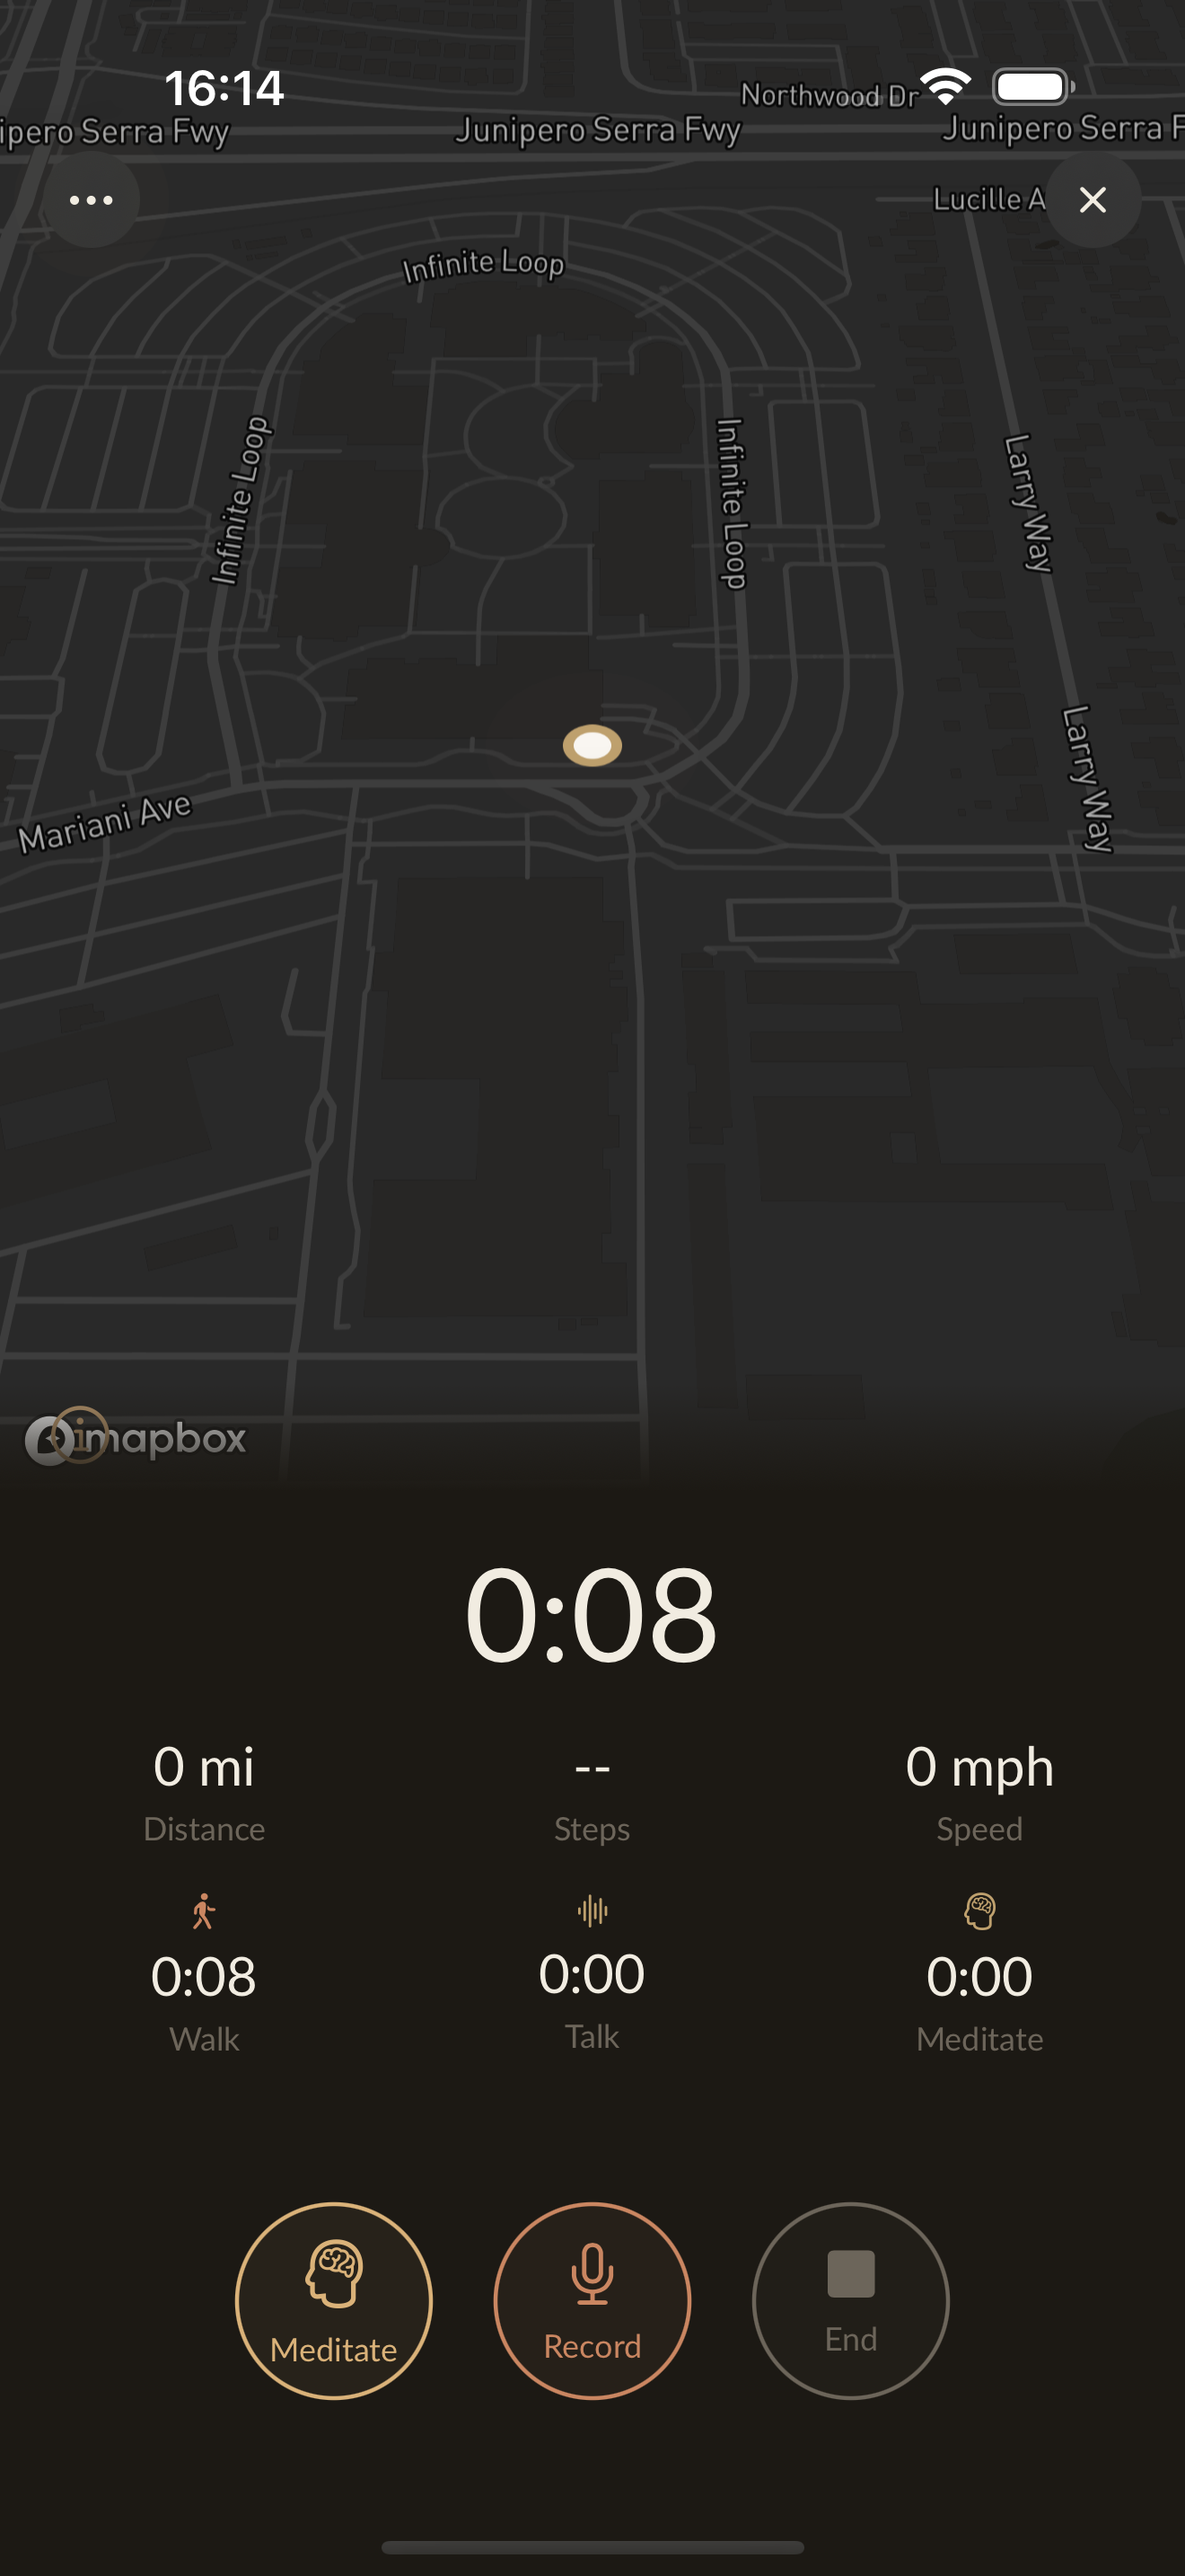
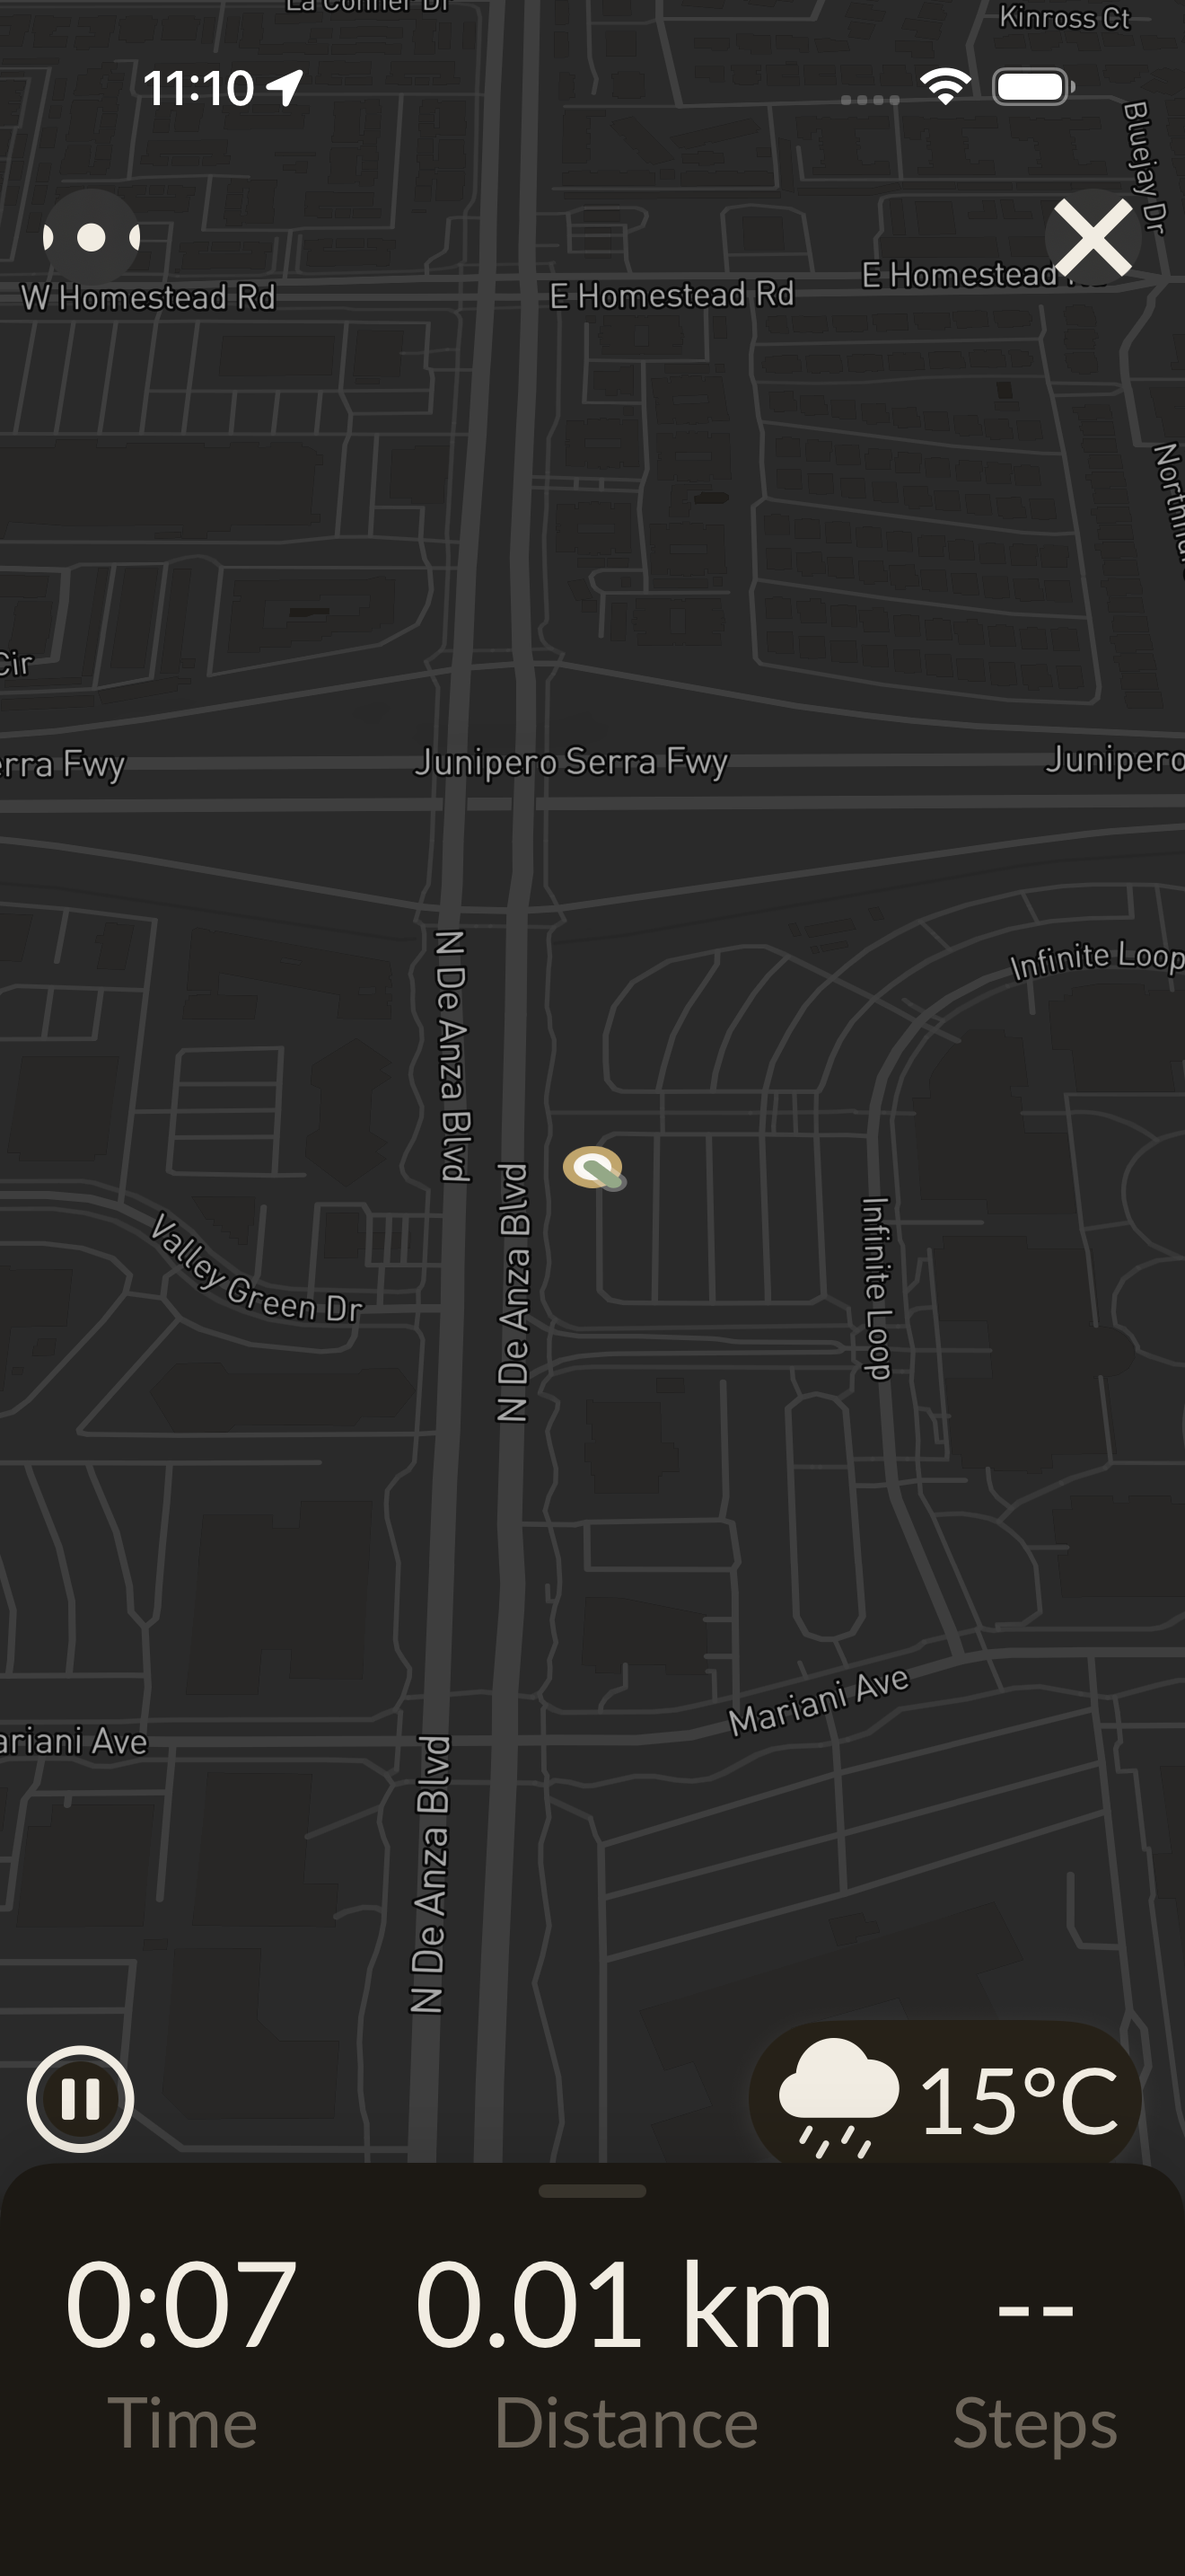
feat: add Whispers & Cairns section, contact, 1.2.0 screenshot
New "The path remembers" section between Practice and Journey — the
collective features shipped in v1.2.0. Two cards: Whispers (anonymous
curated audio gifts placed on the map, proximity-sensed) and Cairns
(virtual stone cairns stackable across seven tiers).

Added walk@plgr.im contact link in two places: a personal closing line
in the Story section and a Contact entry in the footer. Both are
tagged with Umami events so we can see which placement gets clicked.

JSON-LD updates (invisible to users, visible to AI/bots): featureList
gains whispers, cairns, and the Home Screen widget. FAQPage gains a
new Q&A explaining how walkers can leave anonymous traces on a path.

Refreshed 02_active_walk.png to the new map-first layout — full-bleed
map with the collapsible stats panel in its minimized bar form. Alt
text updated to match.

diff --git a/index.html b/index.html
@@ -65,6 +65,9 @@
       "Collective walking counter across pilgrimage routes",
       "GPX import for pilgrimage routes",
       "Live Activities on lock screen",
+      "Home Screen widget with a daily walking mantra",
+      "Whispers — anonymous audio gifts placed along walking routes with proximity detection",
+      "Cairns — virtual stone cairns placed at meaningful spots, stackable by other walkers across seven tiers",
       "No accounts required",
       "No cloud storage — all data on-device",
       "No analytics or telemetry",
@@ -129,6 +132,14 @@
         "acceptedAnswer": {
           "@type": "Answer",
           "text": "Pilgrim lets you record voice notes during walks and transcribes them entirely on-device using WhisperKit (based on OpenAI's Whisper model). Nothing is uploaded to any server. Your voice recordings and transcriptions stay on your phone."
+        }
+      },
+      {
+        "@type": "Question",
+        "name": "Can I leave something behind on a walking path for other walkers?",
+        "acceptedAnswer": {
+          "@type": "Answer",
+          "text": "Pilgrim lets you leave anonymous traces along your walking paths. Place a whisper — a curated audio gift from seven moods like presence, gratitude, or courage — at a meaningful spot on the map. Or stack a virtual cairn of stones at a place worth remembering. When any walker passes within range of a whisper or cairn, their phone gives a quiet haptic pulse. No accounts, no identities, no tracking — just small offerings on the land."
         }
       }
     ]
@@ -858,6 +869,32 @@
     </section>
 
     <!-- ==========================================
+         4.5. Traces — Whispers & Cairns
+         ========================================== -->
+    <section class="traces section" aria-label="Whispers and Cairns">
+      <div class="section-inner">
+        <h2 class="display-large reveal">The path remembers</h2>
+        <p class="body-text reveal" style="max-width: 640px; margin: 0 auto 3rem; text-align: center;">
+          Most walks vanish the moment they end. Pilgrim gives you a way to leave something small behind — and to feel what other walkers left before you. No accounts. No identities. Just traces on the land.
+        </p>
+
+        <div class="practice-grid">
+          <div class="practice-card reveal reveal-delay-1">
+            <div class="practice-card-icon" aria-hidden="true">&#9835;</div>
+            <h3>Whispers</h3>
+            <p>Small audio gifts left at a place on the map. Twenty-one voices across seven moods — presence, wonder, gratitude, compassion, courage, lightness, stillness. Walk close to any whisper, yours or another walker's, and feel it arrive as a quiet pulse.</p>
+          </div>
+
+          <div class="practice-card reveal reveal-delay-2">
+            <div class="practice-card-icon" aria-hidden="true">&#9650;</div>
+            <h3>Cairns</h3>
+            <p>A pile of virtual stones at a meaningful spot. Place your own or add to a cairn left by someone who passed before you. Seven tiers from a faint trace to the eternal cairn that glows at 108 stones.</p>
+          </div>
+        </div>
+      </div>
+    </section>
+
+    <!-- ==========================================
          5. Screenshot Journey
          ========================================== -->
     <section class="journey section" aria-label="A walk through Pilgrim">
@@ -871,7 +908,7 @@
 
         <div class="journey-pair reveal">
           <img src="assets/screenshots/01_walk_start.png" alt="Walk start screen with quote and moon phase" class="journey-screenshot">
-          <img src="assets/screenshots/02_active_walk.png" alt="Active walk showing live route on map" class="journey-screenshot">
+          <img src="assets/screenshots/02_active_walk.png" alt="Active walk with full-screen map and a quiet minimized stats bar at the bottom" class="journey-screenshot">
         </div>
 
         <p class="journey-caption reveal">The breathing circle appears. The world quiets.</p>
@@ -1120,6 +1157,10 @@
           It's open-source and completely free — no subscriptions, no ads, no compromise.
         </p>
 
+        <p class="body-text reveal">
+          If a walk ever gives you something worth sharing — a thought, a correction, a story — write to me at <a href="mailto:walk@plgr.im" style="color:var(--stone)" data-umami-event="click-contact-email">walk@plgr.im</a>.
+        </p>
+
         <div class="story-links reveal">
           <a href="https://walktalkmeditate.org" target="_blank" rel="noopener noreferrer">
             Inspired by the practice of Walk, Talk, Meditate &#8599;
@@ -1181,6 +1222,8 @@
       <a href="/compare.html">Compare</a>
       <span class="horizon-sep">&middot;</span>
       <a href="https://podcast.pilgrimapp.org" target="_blank" rel="noopener">Podcast</a>
+      <span class="horizon-sep">&middot;</span>
+      <a href="mailto:walk@plgr.im" data-umami-event="click-contact-footer">Contact</a>
     </div>
 
     <p class="horizon-signoff reveal">crafted with intention</p>
